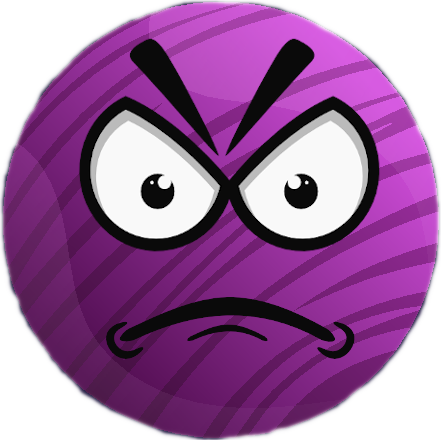
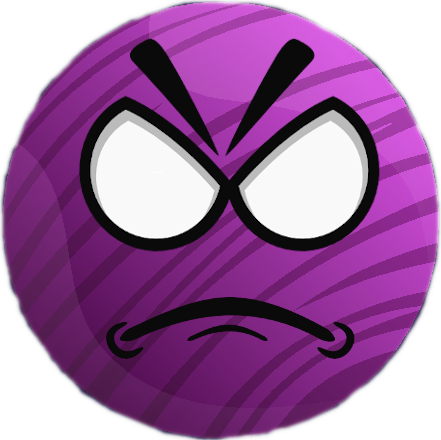
draws eyes on game map

Changed region(s): [[0.2948, 0.3841, 0.4127, 0.4727], [0.619, 0.3841, 0.737, 0.4727]]

diff --git a/js/move.js b/js/move.js
@@ -1,25 +1,17 @@
 import Enemy from './gameObjects/enemy.js'
 import Rocket from './gameObjects/rocket.js'
+import Planet from './gameObjects/planet.js'
 import { angelToSlope, mapDiameter, mapRadius } from './gameUtils.js'
-
+import Controller from './controller.js'
 
 export default class Move {
-    constructor(enemies, rocket) {
+    constructor(enemies, rocket, planets) {
 
         //////////////////////////////////////
         /////Rocket Movement Button Setup/////
         //////////////////////////////////////
-        this.rightButton = document.getElementById('right-button');
-        this.leftButton = document.getElementById('left-button');
-
-        this.rightButton.addEventListener('touchstart', this.rightClickDownAction);
-        this.rightButton.addEventListener('touchend', this.rightClickUpAction);
-        this.leftButton.addEventListener('touchstart', this.leftClickDownAction);
-        this.leftButton.addEventListener('touchend', this.leftClickUpAction);
-
-        this.touchDownR = false;
-        this.touchDownL = false;
-
+       
+        this.controller = new Controller()
         this.ROTATE_SPEED = 5;
 
         this.canvasEle = document.querySelector('#game-window');
@@ -31,7 +23,9 @@ export default class Move {
         // this.width = 812
         // this.height = 375;
 
-        this.objectsToMove = [...enemies, rocket]
+        this.rocket = rocket
+
+        this.objectsToMove = [...enemies, rocket, ...planets]
         
         this.FRAME = 1
     }
@@ -40,9 +34,11 @@ export default class Move {
         this.FRAME = (this.FRAME === 60) ? 0 : ++this.FRAME
         this.objectsToMove.forEach(object => {
             if (object instanceof Enemy) {
-                this.moveEnemy(object)
+                // this.moveEnemy(object)
             } else if (object instanceof Rocket) {
                 this.moveRocket(object)
+            } else if (object instanceof Planet) {
+                this.movePlanet(object)
             }
         })
     }
@@ -88,11 +84,11 @@ export default class Move {
     
     rotateShip(rocket) {
         for (let i = 0; i < this.ROTATE_SPEED; i++) {
-            if (this.touchDownR) {
+            if (this.controller.touchDownR) {
                 // console.log('hellloo')            
                 (rocket.degree + 1 > 359) ? rocket.degree = 0 : rocket.degree += 1
             }
-            if (this.touchDownL) {
+            if (this.controller.touchDownL) {
                 (rocket.degree === 0) ? rocket.degree = 359 : rocket.degree -= 1
             }
             // rocket.quadControlPoint = rocket.positionX - rocket.positionY
@@ -100,21 +96,46 @@ export default class Move {
         Rocket.setVelXandY(rocket);
     }
 
-    rightClickDownAction = (e) => {
-        this.touchDownR = true;
+
+
+
+    movePlanet(planet) {
+        //focus on eye movement now.
+    var mouseX = this.rocket.x - 8 - planet.x;
+    var mouseY = this.rocket.y - 8 - planet.eyeYPosition;
+    // console.log(this.offsetTop)
+    // console.log('hello')
+    // console.log(mouseX)
+    // console.log(mouseY)
+    // console.log('hello', planet.eyeYPosition, planet.x)
+
+    var ratioX = Math.abs(mouseX) / (Math.abs(mouseX) + Math.abs(mouseY));
+    var ratioY = Math.abs(mouseY) / (Math.abs(mouseX) + Math.abs(mouseY));
+
+
+    if (mouseX > 0) {
+        planet.reyedxafter = planet.reyedx + (ratioX * planet.eyesgap);
+    } else {
+        planet.reyedxafter = planet.reyedx - (ratioX * planet.eyesgap);
     }
 
-    rightClickUpAction = (e) => {
-        this.touchDownR = false;
+    if (mouseY > 0) {
+        planet.reyedyafter = planet.reyedy + (ratioY * planet.eyesgap);
+    } else {
+        planet.reyedyafter = planet.reyedy - (ratioY * planet.eyesgap);
     }
 
-    leftClickDownAction = (e) => {
-        this.touchDownL = true;
+    if (mouseX > 0) {
+        planet.leyedxafter = planet.leyedx + (ratioX * planet.eyesgap);
+    } else {
+        planet.leyedxafter = planet.leyedx - (ratioX * planet.eyesgap);
     }
-                                   
-    leftClickUpAction = (e) => {  
-        this.touchDownL = false;
-    }                             
 
+    if (mouseY > 0) {
+        planet.leyedyafter = planet.leyedy + (ratioY * planet.eyesgap);
+    } else {
+        planet.leyedyafter = planet.leyedy - (ratioY * planet.eyesgap);
+    }
+    }
 
 }

diff --git a/js/gameEngine.js b/js/gameEngine.js
@@ -25,7 +25,7 @@ export default class GameEngine {
         this.generatePlanets()
         this.generateStarField()
         this.generateRocket()
-        this.move = new Move(this.enemies, this.rocket);
+        this.move = new Move(this.enemies, this.rocket, this.planets);
         this.display = new Display(this.enemies, this.planets, this.stars, this.rocket);
         this.collision = new Collision(this.enemies, this.planets, this.stars, this.rocket)
         this.loop()
@@ -69,6 +69,30 @@ export default class GameEngine {
             planetInst.color = planet.color; // this.color = color;
             planetInst.img = new Image();
             planetInst.img.src = planet.imageSrc;
+
+
+            // planet eyes
+            planetInst.radiusEyeIn = 3; // controls puple size
+
+            planetInst.eyeYPosition = planetInst.y - 80; // controlls eyes vertical position relative to face
+
+            planetInst.reyedx = planetInst.x + (planetInst.radiusEyeIn / 2) + 14 // controls postion of right puple
+            planetInst.reyedy = planetInst.eyeYPosition
+
+            planetInst.leyedx = planetInst.x - (planetInst.radiusEyeIn / 2) - 14 // controls postion of left puple
+            planetInst.leyedy = planetInst.eyeYPosition
+
+            
+            planetInst.eyesgap = 4; // controls how off center the puples eye trackiing is
+            
+            planetInst.reyedxafter = planetInst.reyedx;
+            planetInst.reyedyafter = planetInst.reyedy;
+            
+            planetInst.leyedxafter = planetInst.leyedx;
+            console.log(planetInst.leyedx)
+            console.log(planetInst.reyedx)
+            planetInst.leyedyafter = planetInst.leyedy;
+
             this.planets.push(planetInst)
         })
     }
@@ -119,13 +143,10 @@ export default class GameEngine {
         Rocket.setVelXandY(this.rocket);
         this.rocket.img = new Image();
         this.rocket.img.src = './img/new-rocket-cut.png';
-
-
-
     }
 
     checkGameState() {
-        // this.loop();
+        this.loop();
     }
 
     loop() {

diff --git a/js/display.js b/js/display.js
@@ -50,9 +50,9 @@ export default class Display {
 
         this.objectsToRender.forEach(object => {
             if (object instanceof Star) {
-                this.renderStar(object);
+                // this.renderStar(object);
             } else if ( object instanceof Enemy ) {
-                this.renderEnemy(object);
+                // this.renderEnemy(object);
             } else if ( object instanceof Planet ) {
                 this.renderPlanet(object);
             } else if ( object instanceof Rocket ) {
@@ -85,6 +85,24 @@ export default class Display {
         this.ctx.drawImage(planet.img, planet.x, planet.y, planet.width, planet.height);
         this.ctx.fill()
         this.ctx.shadowBlur = 0;
+        this.ctx.stroke()
+
+
+        //eyes
+
+        // console.log(planet.reyedxafter, planet.reyedyafter, planet.radiusEyeIn)
+        // draws right puple
+        this.ctx.beginPath();
+        this.ctx.arc(planet.reyedxafter, planet.reyedyafter, planet.radiusEyeIn, 0, 2 * Math.PI, false);
+        this.ctx.fillStyle = 'rgba(255,0,0,1)';
+        this.ctx.fill();
+        this.ctx.stroke()
+
+        // draws left puple
+        this.ctx.beginPath();
+        this.ctx.arc(planet.leyedxafter, planet.leyedyafter, planet.radiusEyeIn, 0, 2 * Math.PI, false);
+        this.ctx.fillStyle = 'rgba(255,0,0,1)';
+        this.ctx.fill();
         this.ctx.stroke()
     }
 

diff --git a/js/controller.js b/js/controller.js
@@ -1,0 +1,30 @@
+export default class Controller {
+    constructor () {
+        this.rightButton = document.getElementById('right-button');
+        this.leftButton = document.getElementById('left-button');
+
+        this.rightButton.addEventListener('touchstart', this.rightClickDownAction);
+        this.rightButton.addEventListener('touchend', this.rightClickUpAction);
+        this.leftButton.addEventListener('touchstart', this.leftClickDownAction);
+        this.leftButton.addEventListener('touchend', this.leftClickUpAction);
+
+        this.touchDownR = false;
+        this.touchDownL = false;
+    }
+
+    rightClickDownAction = (e) => {
+        this.touchDownR = true;
+    }
+
+    rightClickUpAction = (e) => {
+        this.touchDownR = false;
+    }
+
+    leftClickDownAction = (e) => {
+        this.touchDownL = true;
+    }
+
+    leftClickUpAction = (e) => {
+        this.touchDownL = false;
+    }
+}
